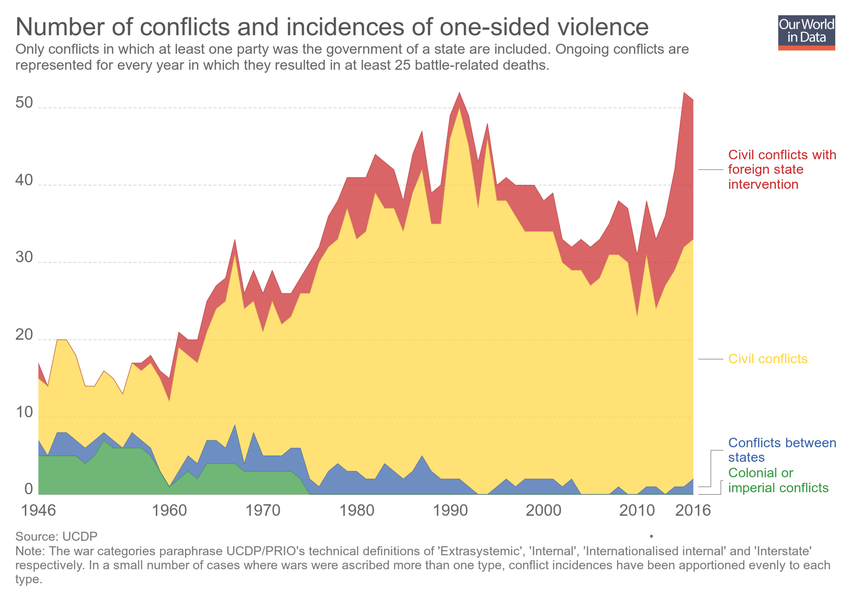
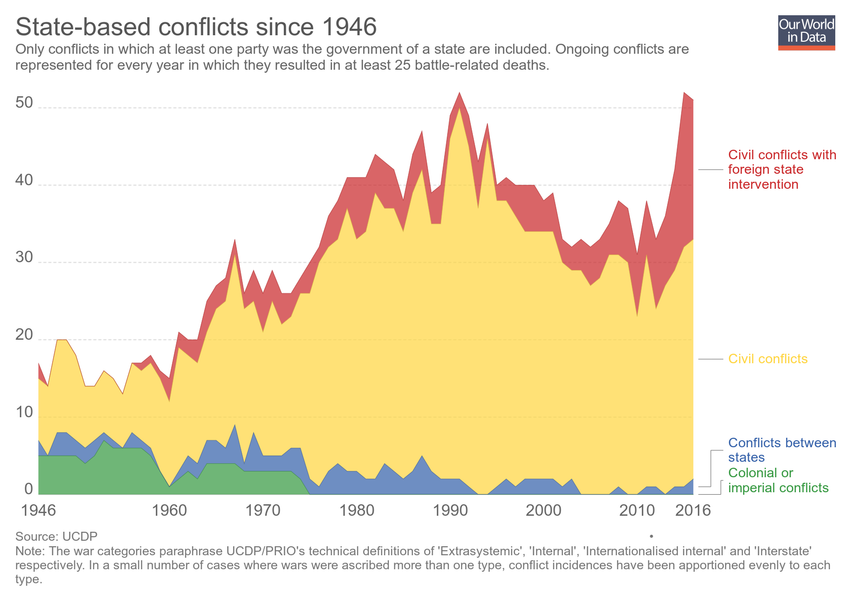
Unpublishing chart number-of-state-based-conflicts-since-1946

Changed region(s): [[0.0, 0.03, 0.7647, 0.06]]

diff --git a/grapher/number-of-conflicts-and-incidences-of-one-sided-violence.html b/grapher/number-of-conflicts-and-incidences-of-one-sided-violence.html
@@ -1,4 +1,4 @@
-<!doctype html><html><head><meta name="viewport" content="width=device-width, initial-scale=1" /><title>Number of conflicts and incidences of one-sided violence - Our World in Data</title><meta name="description" content="Only conflicts in which at least one party was the government of a state are included. Ongoing conflicts are represented for every year in which they resulted in at least 25 battle-related deaths." /><link rel="canonical" href="https://ourworldindata.org/grapher/number-of-conflicts-and-incidences-of-one-sided-violence" /><meta property="fb:app_id" content="1149943818390250" /><meta property="og:url" content="https://ourworldindata.org/grapher/number-of-conflicts-and-incidences-of-one-sided-violence" /><meta property="og:title" content="Number of conflicts and incidences of one-sided violence" /><meta property="og:description" content="Only conflicts in which at least one party was the government of a state are included. Ongoing conflicts are represented for every year in which they resulted in at least 25 battle-related deaths." /><meta property="og:image" content="https://ourworldindata.org/grapher/exports/number-of-conflicts-and-incidences-of-one-sided-violence.png?v=1" /><meta property="og:image:width" content="850" /><meta property="og:image:height" content="600" /><meta property="og:site_name" content="Our World in Data" /><meta name="twitter:card" content="summary_large_image" /><meta name="twitter:site" content="@OurWorldInData" /><meta name="twitter:creator" content="@OurWorldInData" /><meta name="twitter:title" content="Number of conflicts and incidences of one-sided violence" /><meta name="twitter:description" content="Only conflicts in which at least one party was the government of a state are included. Ongoing conflicts are represented for every year in which they resulted in at least 25 battle-related deaths." /><meta name="twitter:image" content="https://ourworldindata.org/grapher/exports/number-of-conflicts-and-incidences-of-one-sided-violence.png?v=1" /><style>
+<!doctype html><html><head><meta name="viewport" content="width=device-width, initial-scale=1" /><title>State-based conflicts since 1946 - Our World in Data</title><meta name="description" content="Only conflicts in which at least one party was the government of a state are included. Ongoing conflicts are represented for every year in which they resulted in at least 25 battle-related deaths." /><link rel="canonical" href="https://ourworldindata.org/grapher/number-of-conflicts-and-incidences-of-one-sided-violence" /><meta property="fb:app_id" content="1149943818390250" /><meta property="og:url" content="https://ourworldindata.org/grapher/number-of-conflicts-and-incidences-of-one-sided-violence" /><meta property="og:title" content="State-based conflicts since 1946" /><meta property="og:description" content="Only conflicts in which at least one party was the government of a state are included. Ongoing conflicts are represented for every year in which they resulted in at least 25 battle-related deaths." /><meta property="og:image" content="https://ourworldindata.org/grapher/exports/number-of-conflicts-and-incidences-of-one-sided-violence.png?v=2" /><meta property="og:image:width" content="850" /><meta property="og:image:height" content="600" /><meta property="og:site_name" content="Our World in Data" /><meta name="twitter:card" content="summary_large_image" /><meta name="twitter:site" content="@OurWorldInData" /><meta name="twitter:creator" content="@OurWorldInData" /><meta name="twitter:title" content="State-based conflicts since 1946" /><meta name="twitter:description" content="Only conflicts in which at least one party was the government of a state are included. Ongoing conflicts are represented for every year in which they resulted in at least 25 battle-related deaths." /><meta name="twitter:image" content="https://ourworldindata.org/grapher/exports/number-of-conflicts-and-incidences-of-one-sided-violence.png?v=2" /><style>
         html, body {
             height: 100%;
             margin: 0;
@@ -20,8 +20,8 @@
         }
     </style><noscript><style>
                     figure { display: none !important; }
-                </style></noscript><link rel="stylesheet" href="https://ourworldindata.org/grapher/assets/commons.bundle.62f8703dfc964fd3975c.css" /><link rel="preload" href="/grapher/data/variables/97374.json?v=1" as="fetch" crossorigin /></head><body class="singleChart"><figure data-grapher-src="/grapher/number-of-conflicts-and-incidences-of-one-sided-violence"></figure><noscript id="fallback"><img src="/grapher/exports/number-of-conflicts-and-incidences-of-one-sided-violence.svg" /><p>Interactive visualization requires JavaScript</p></noscript><script src="https://cdn.polyfill.io/v2/polyfill.min.js?features=es6,fetch"></script><script src="https://ourworldindata.org/grapher/assets/commons.bundle.62f8703dfc964fd3975c.js"></script><script src="https://ourworldindata.org/grapher/assets/charts.bundle.dcf65b68eddaba4c6a58.js"></script><script>
-        var jsonConfig = {"map":{"projection":"World","colorSchemeLabels":[],"colorSchemeValues":[],"colorSchemeMinValue":0,"customNumericColors":[],"customCategoryColors":{},"customCategoryLabels":{},"customHiddenCategories":{}},"tab":"chart","note":"The war categories paraphrase UCDP/PRIO's technical definitions of 'Extrasystemic', 'Internal', 'Internationalised internal' and 'Interstate' respectively. In a small number of cases where wars were ascribed more than one type, conflict incidences have been apportioned evenly to each type.","slug":"number-of-conflicts-and-incidences-of-one-sided-violence","type":"StackedArea","title":"Number of conflicts and incidences of one-sided violence","xAxis":{"scaleType":"linear"},"yAxis":{"min":0,"scaleType":"linear"},"version":1,"subtitle":"Only conflicts in which at least one party was the government of a state are included. Ongoing conflicts are represented for every year in which they resulted in at least 25 battle-related deaths.","hasMapTab":false,"stackMode":"absolute","dimensions":[{"display":{},"property":"y","variableId":97374}],"isAutoSlug":true,"hasChartTab":true,"isAutoTitle":true,"isPublished":true,"selectedData":[{"index":0,"entityId":37491},{"color":"#ffd53e","index":0,"entityId":37492},{"index":0,"entityId":37493},{"color":"#34983f","index":0,"entityId":37494}],"addCountryMode":"disabled","id":2585};
+                </style></noscript><link rel="stylesheet" href="https://ourworldindata.org/grapher/assets/commons.bundle.62f8703dfc964fd3975c.css" /><link rel="preload" href="/grapher/data/variables/97374.json?v=2" as="fetch" crossorigin /></head><body class="singleChart"><figure data-grapher-src="/grapher/number-of-conflicts-and-incidences-of-one-sided-violence"></figure><noscript id="fallback"><img src="/grapher/exports/number-of-conflicts-and-incidences-of-one-sided-violence.svg" /><p>Interactive visualization requires JavaScript</p></noscript><script src="https://cdn.polyfill.io/v2/polyfill.min.js?features=es6,fetch"></script><script src="https://ourworldindata.org/grapher/assets/commons.bundle.62f8703dfc964fd3975c.js"></script><script src="https://ourworldindata.org/grapher/assets/charts.bundle.dcf65b68eddaba4c6a58.js"></script><script>
+        var jsonConfig = {"id":2585,"map":{"projection":"World","colorSchemeLabels":[],"colorSchemeValues":[],"colorSchemeMinValue":0,"customNumericColors":[],"customCategoryColors":{},"customCategoryLabels":{},"customHiddenCategories":{}},"tab":"chart","note":"The war categories paraphrase UCDP/PRIO's technical definitions of 'Extrasystemic', 'Internal', 'Internationalised internal' and 'Interstate' respectively. In a small number of cases where wars were ascribed more than one type, conflict incidences have been apportioned evenly to each type.","slug":"number-of-conflicts-and-incidences-of-one-sided-violence","type":"StackedArea","title":"State-based conflicts since 1946","xAxis":{"scaleType":"linear"},"yAxis":{"min":0,"scaleType":"linear"},"version":2,"subtitle":"Only conflicts in which at least one party was the government of a state are included. Ongoing conflicts are represented for every year in which they resulted in at least 25 battle-related deaths.","hasMapTab":false,"stackMode":"absolute","dimensions":[{"display":{},"property":"y","variableId":97374}],"hasChartTab":true,"isPublished":true,"selectedData":[{"index":0,"entityId":37491},{"color":"#ffd53e","index":0,"entityId":37492},{"index":0,"entityId":37493},{"color":"#34983f","index":0,"entityId":37494}],"addCountryMode":"disabled"};
         var figure = document.getElementsByTagName("figure")[0];
         try {
             window.App = {};
